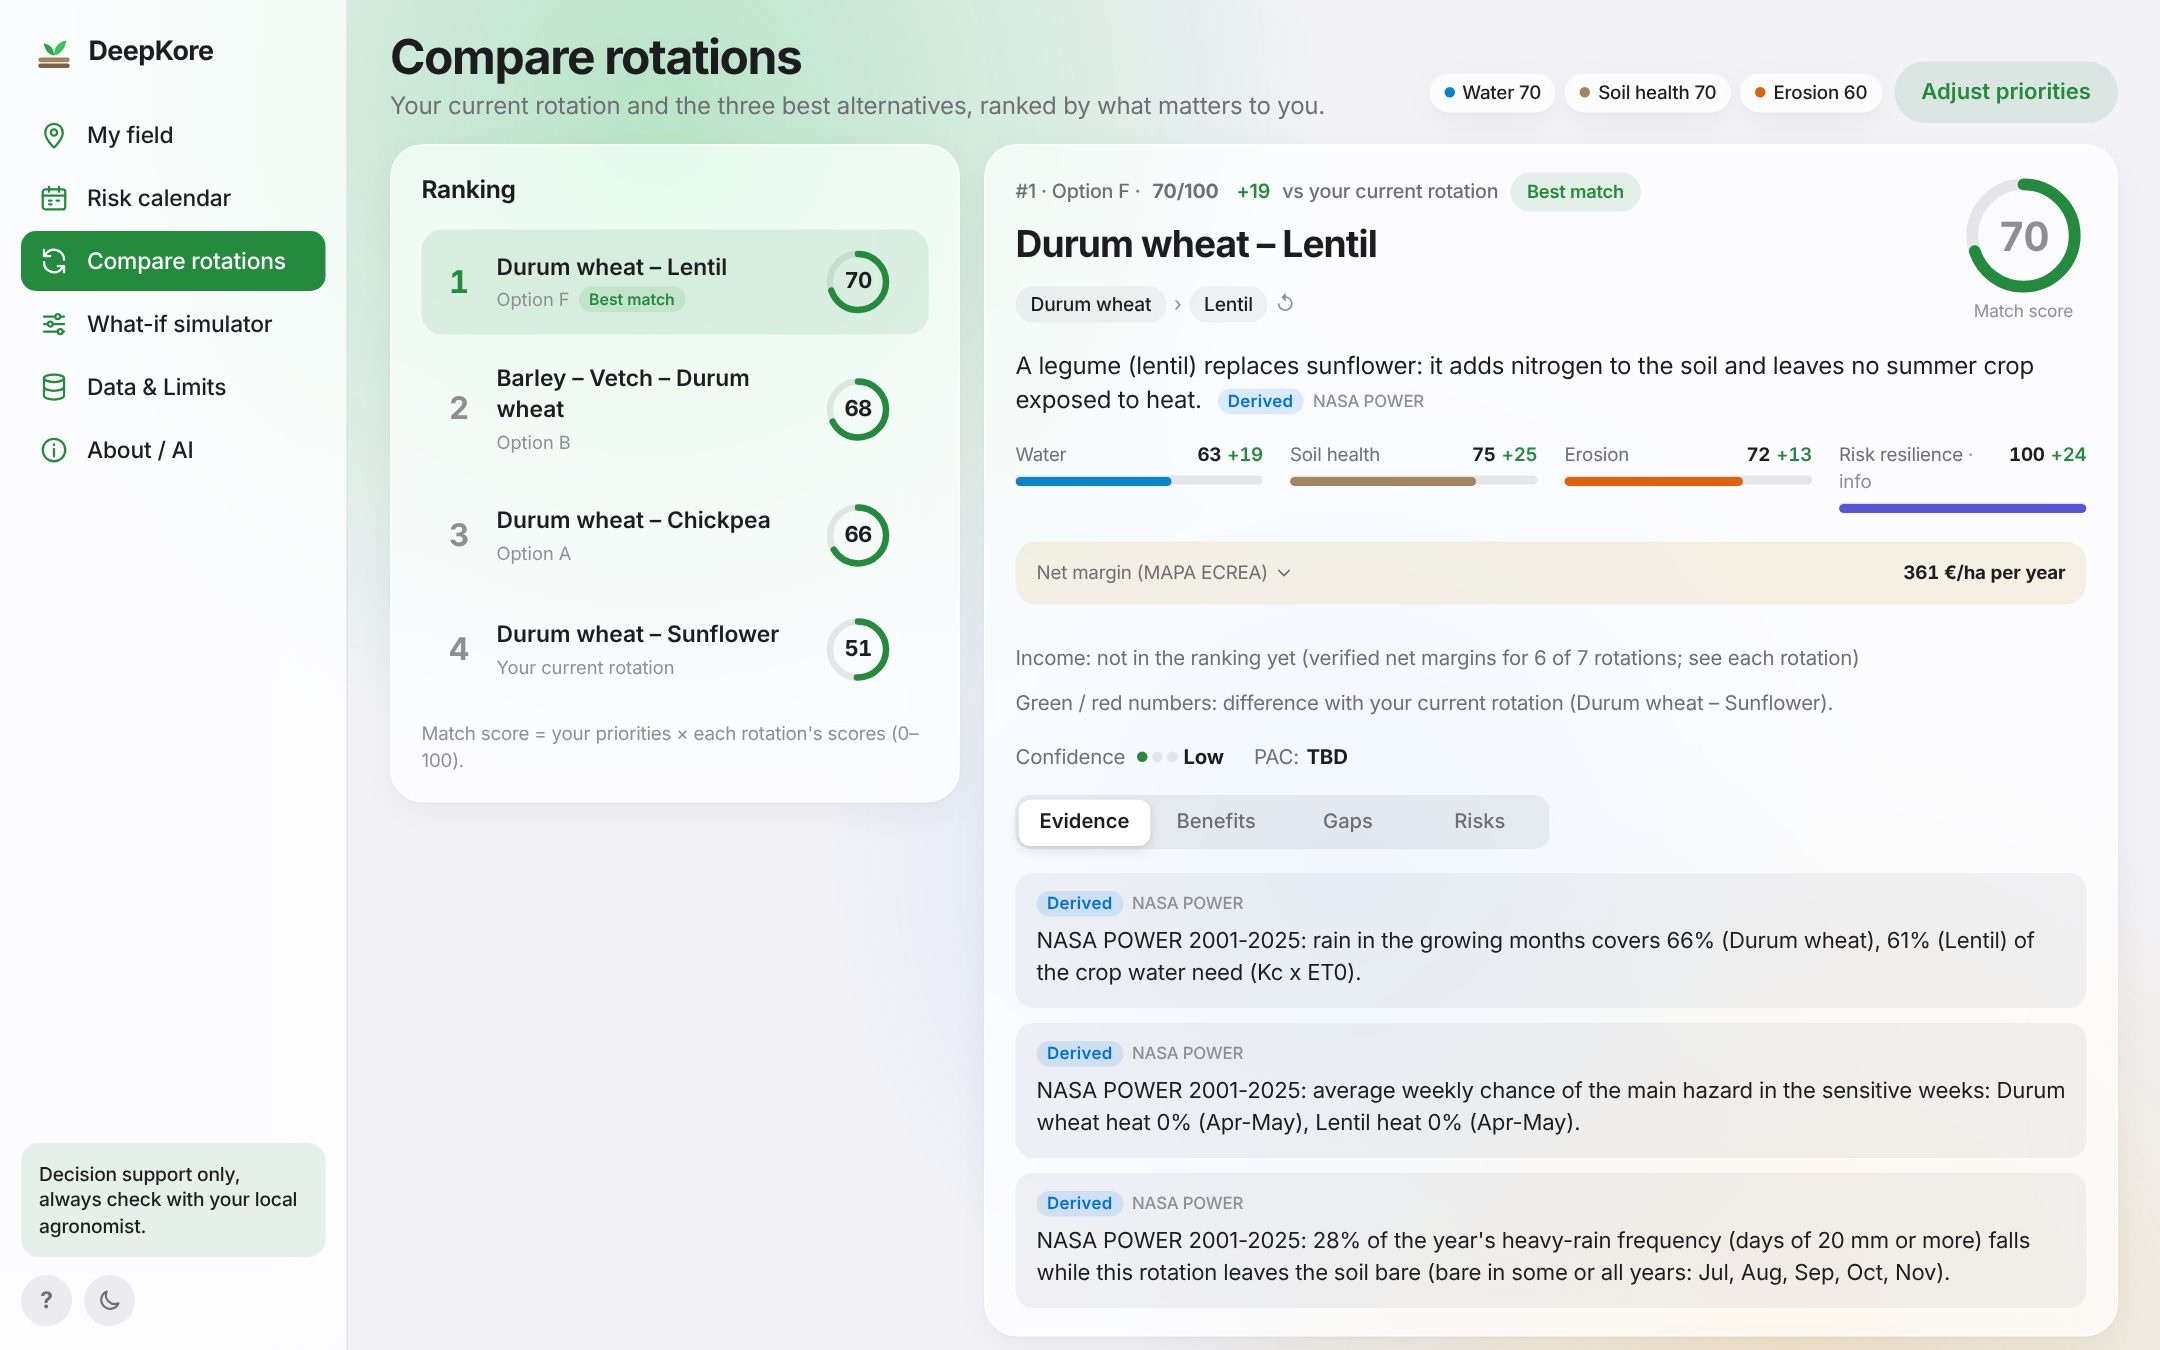
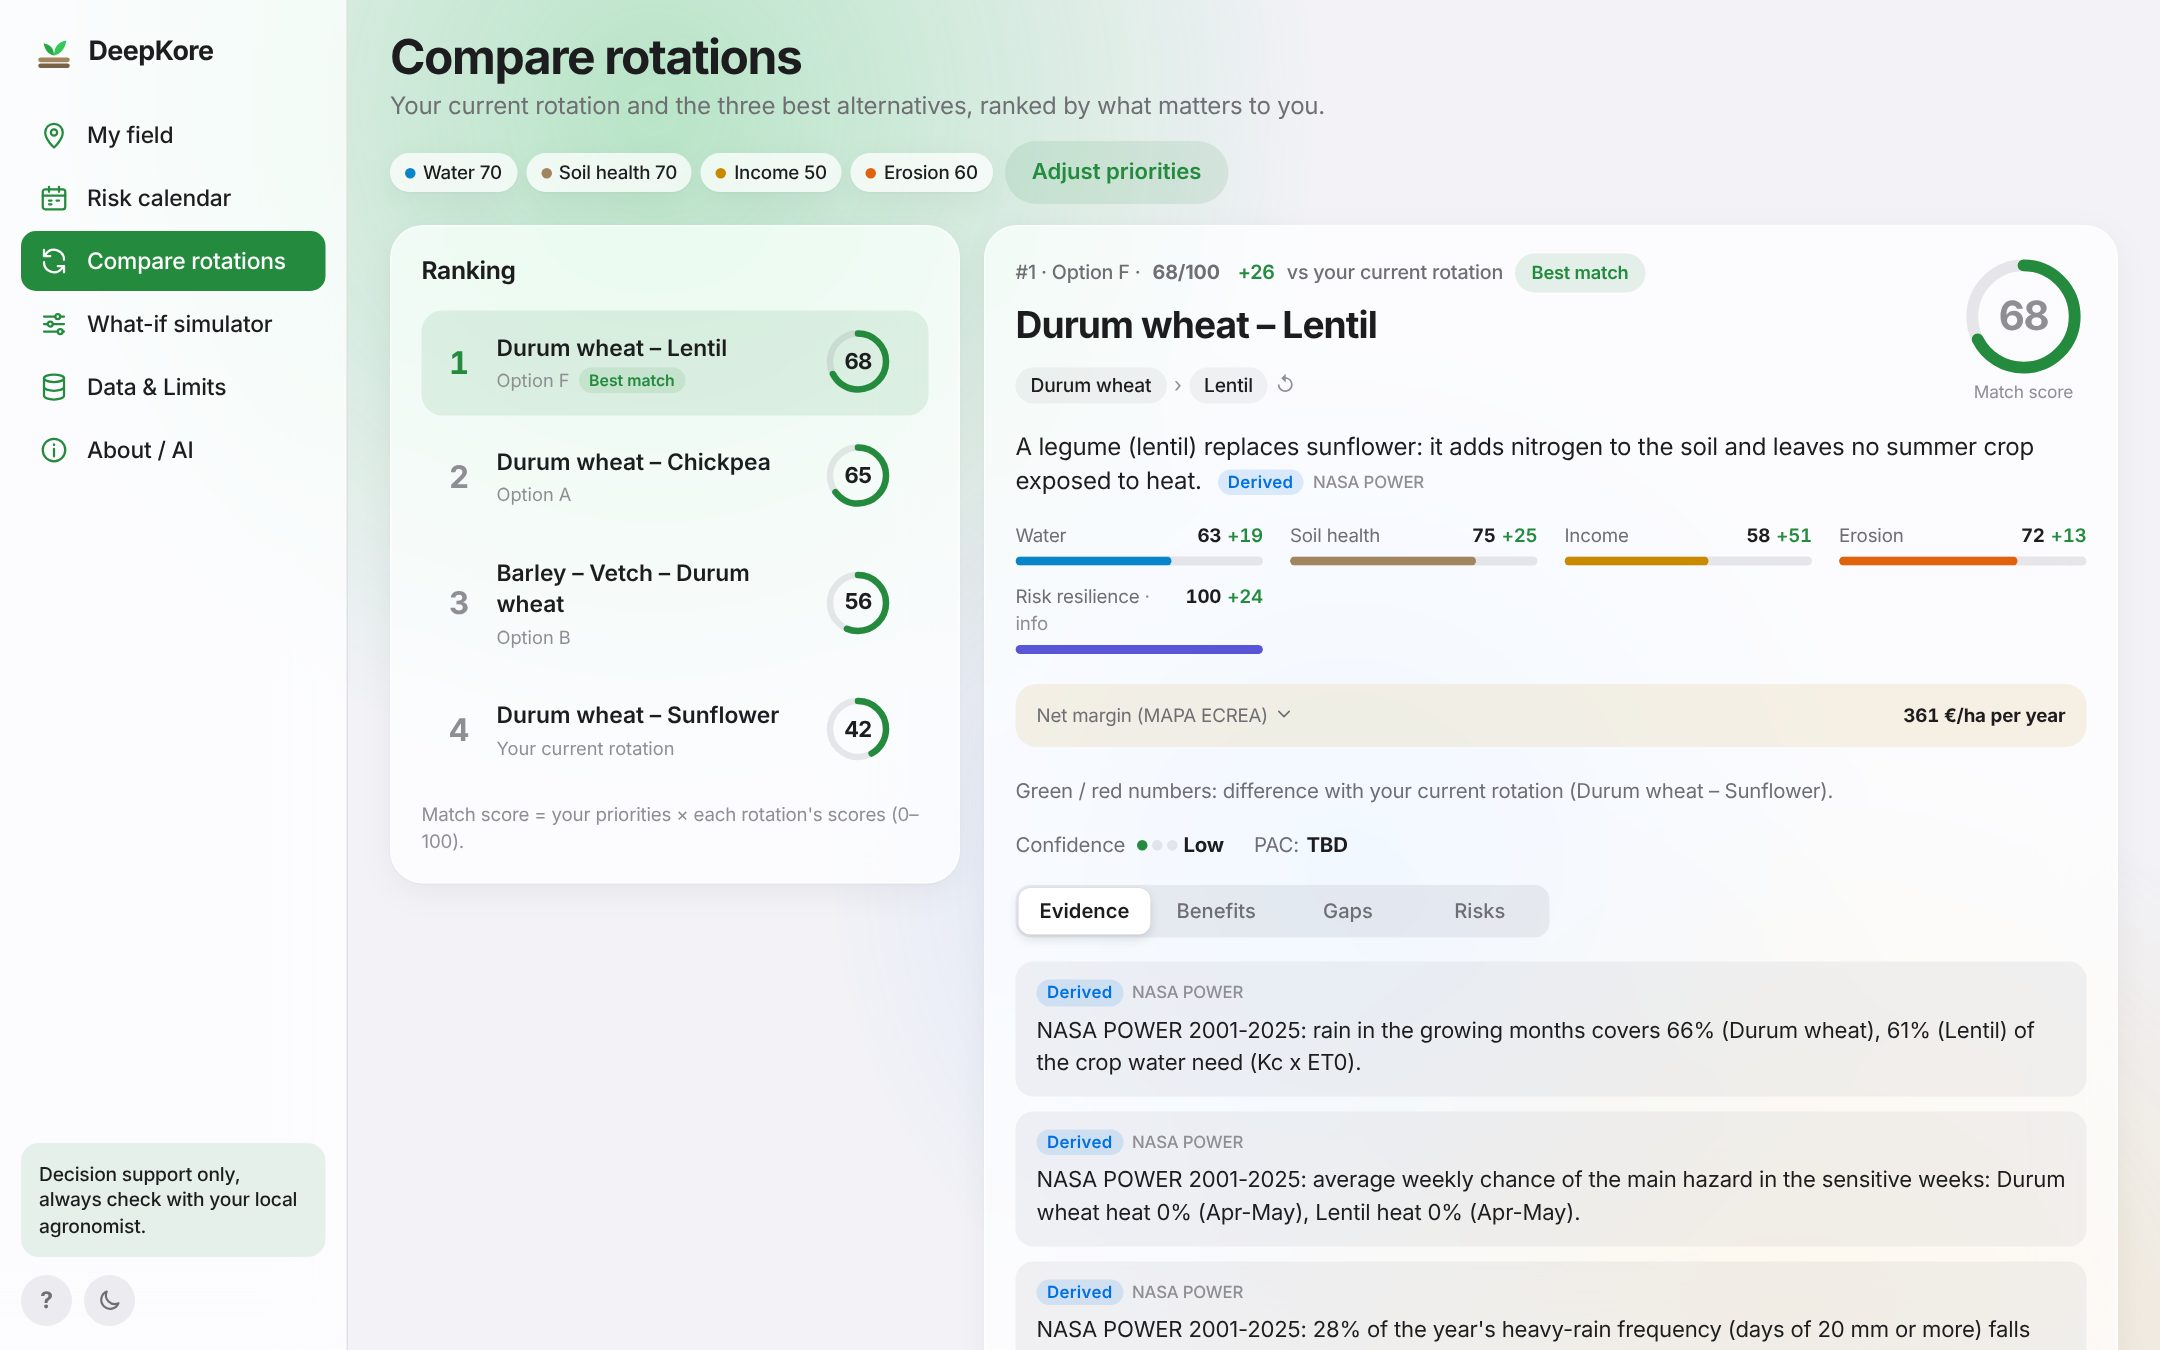
fix(income): fallow counts as 0 EUR/ha so income is in the ranking; clearer money text
- Fallow sells nothing: counted as 0 EUR/ha like vetch-as-forage and the cover crop (flagged, TBD).
  Every rotation now has a net margin, so the Income slider is back and income counts in the ranking.
  Default: current 42 -> best Durum wheat - Lentil 68 (tests updated).
- My field explains the net margin in plain words: after all costs, before CAP subsidies,
  regional ECREA average, not the farm's accounts.
- LIVE_VERSION 6 so fields cached on devices are recomputed; pitch numbers, script and texts updated.

Claude-Session: https://claude.ai/code/session_01D3Ytv4YFipRc5h3NFeBV3J

diff --git a/pitch/index.html b/pitch/index.html
@@ -395,11 +395,11 @@ button:focus-visible{outline:2px solid var(--greend);outline-offset:3px}
       <div class="card c1 a" style="--i:3">
         <span class="lab">Result at the pilot field</span>
         <div class="vsrow" id="vs">
-          <div class="score" style="--k:var(--clay)"><svg viewBox="0 0 64 64"><circle class="t" cx="32" cy="32" r="26"/><circle class="v" cx="32" cy="32" r="26" style="--off:80"/></svg><b>51</b><small>today</small><em>Durum wheat – Sunflower</em></div>
+          <div class="score" style="--k:var(--clay)"><svg viewBox="0 0 64 64"><circle class="t" cx="32" cy="32" r="26"/><circle class="v" cx="32" cy="32" r="26" style="--off:95"/></svg><b>42</b><small>today</small><em>Durum wheat – Sunflower</em></div>
           <div style="font:900 clamp(1.2rem,2vw,2rem) var(--sans);color:var(--mut)">→</div>
-          <div class="score" style="--k:var(--green)"><svg viewBox="0 0 64 64"><circle class="t" cx="32" cy="32" r="26"/><circle class="v" cx="32" cy="32" r="26" style="--off:49"/></svg><b>70</b><small>best for you</small><em>Durum wheat – Lentil</em></div>
+          <div class="score" style="--k:var(--green)"><svg viewBox="0 0 64 64"><circle class="t" cx="32" cy="32" r="26"/><circle class="v" cx="32" cy="32" r="26" style="--off:52"/></svg><b>68</b><small>best for you</small><em>Durum wheat – Lentil</em></div>
         </div>
-        <div class="deltas" id="deltas"><span>Water +19</span><span>Soil health +25</span><span>Erosion +13</span></div>
+        <div class="deltas" id="deltas"><span>Water +19</span><span>Soil health +25</span><span>Erosion +13</span><span>Income +51</span></div>
         <p style="margin-top:auto;font-size:clamp(.74rem,.92vw,.94rem)">Match score out of 100 with default priorities. The farmer decides the trade-off.</p>
       </div>
     </div>
@@ -492,7 +492,6 @@ const nameOf = (r) => String(r.name ?? r.id).replace(/^\s*(current|[A-Z])\s*:\s*
     document.getElementById("deltas").innerHTML = Object.keys(L).map((k) => {
       const a = best.rotation.scores?.[k], b = now.rotation.scores?.[k];
       if (typeof a !== "number" || typeof b !== "number" || a === b) return "";
-      if (k === "income") return ""; // income is not in the ranking yet
       return `<span class="${a < b ? "dn" : ""}">${L[k]} ${a > b ? "+" : "−"}${Math.abs(a - b)}</span>`;
     }).join("");
   } catch { /* keep static numbers */ }

diff --git a/js/views/field.js b/js/views/field.js
@@ -271,12 +271,12 @@ export function render(el, ctx) {
     totalsEl.innerHTML = `
       <dl class="kv">
         ${yearRain !== null ? `<div><dt>Rain on your field</dt><dd>≈ <b>${fmt(m3(yearRain, ha))} m³</b> per year <span class="muted">(${fmt(yearRain)} mm, mean ${esc(parcel.period)})</span></dd></div>` : ""}
-        <div><dt>Net margin, your current rotation (${esc(displayName(current))})</dt><dd>${income(current)}</dd></div>
-        ${best.id !== current.id ? `<div><dt>Net margin, best match (${esc(displayName(best))})</dt><dd>${income(best)}</dd></div>` : ""}
+        <div><dt>Net margin before CAP subsidies, your current rotation (${esc(displayName(current))})</dt><dd>${income(current)}</dd></div>
+        ${best.id !== current.id ? `<div><dt>Net margin before CAP subsidies, best match (${esc(displayName(best))})</dt><dd>${income(best)}</dd></div>` : ""}
       </dl>
       <h3 class="totals__sub">Water in the growing months, your current rotation</h3>
       <ul class="wb-list">${water(current)}</ul>
-      <p class="small muted">Water need = Kc × ET0 (FAO-56) over the growing months, rainfed, no soil storage. Net margin = MAPA ECREA, Andalucía rainfed, 2018-2020 (euro/ha, without decoupled payments); it is the base of the income score. 1 mm on 1 ha = 10 m³.</p>`;
+      <p class="small muted">Water need = Kc × ET0 (FAO-56) over the growing months, rainfed, no soil storage. Net margin = what is left from the harvest after seed, fertiliser, fuel, machinery, hired work and depreciation, <b>before CAP subsidies</b>. Regional average for rainfed farms in Andalucía from the Spanish Ministry of Agriculture (ECREA, 2018-2020), not your farm's accounts. It is the base of the income score. 1 mm on 1 ha = 10 m³.</p>`;
   };
 
   /* ---- best match ---- */

diff --git a/js/live.js b/js/live.js
@@ -4,7 +4,7 @@
 import { VALIDATORS } from "./contract.js";
 
 // Bump when the browser computation changes (worker, power_files, rotations_core, power_core).
-export const LIVE_VERSION = "5";
+export const LIVE_VERSION = "6";
 const CACHE_PREFIX = "deepkore-live:";
 const OLD_PREFIXES = ["deepkore-live-v1:", "deepkore-live-v2:"];
 export const LIVE_FILES = ["parcel", "climate", "risk_windows", "validation", "rotations", "scenarios"];

diff --git a/pitch/GUION.md b/pitch/GUION.md
@@ -30,7 +30,7 @@ Los 2-3 minutos incluyen subir al escenario y las preguntas: el pitch tiene que 
 > "El motor es NASA POWER: 25 años de datos diarios de tu parcela. Con ellos calculamos la probabilidad semanal de helada, calor y lluvia fuerte, el agua que necesita cada cultivo y cuándo cae la tormenta sobre suelo desnudo."
 
 **6 · Evidence**
-> "¿Funciona con datos reales? Sí: detecta la sequía de 2022–23 como la más seca de 25 años. Y en nuestra parcela piloto, pasar de trigo–girasol a trigo–lenteja sube de 51 a 70: más agua, más suelo, menos erosión."
+> "¿Funciona con datos reales? Sí: detecta la sequía de 2022–23 como la más seca de 25 años. Y en nuestra parcela piloto, pasar de trigo–girasol a trigo–lenteja sube de 42 a 68: más suelo, menos erosión y más margen por hectárea."
 
 **7 · Built / Simulated / Next**
 > "Funciona hoy en toda Andalucía, nuestra región piloto. Los datos de la NASA son globales: para llevarla a cualquier país solo hay que añadir sus calendarios de cultivo. Siguiente paso: cooperativas de Málaga, SMAP y GPM. Y siempre: apoya al agricultor, decide su agrónomo."

diff --git a/docs/SUBMISSION.md b/docs/SUBMISSION.md
@@ -63,8 +63,8 @@ regional, and in 48 hours we wrote and checked them only for our own region. And
 - **Erosion:** 1 − share of the year's heavy-rain frequency that falls while the soil is bare.
 - **Risk resilience:** 1 − mean weekly chance of each crop's main hazard during its sensitive weeks.
 - **Soil health:** legume years and botanical diversity of the sequence.
-- **Income:** net margin per hectare from the Spanish Ministry of Agriculture (MAPA ECREA 2.0, Andalucía rainfed). It is shown
-  for each rotation but kept out of the ranking while one rotation (wheat–fallow) has no verified value.
+- **Income:** net margin per hectare before CAP subsidies, from the Spanish Ministry of Agriculture (MAPA ECREA 2.0, Andalucía
+  rainfed, 2018–2020). Crops without a verified value (vetch as forage, cover crop, fallow) count as 0 €/ha and are flagged.
 
 ### Benefits
 - Turns open NASA data into plain-language answers a farmer can use on a phone, without login.

diff --git a/pipeline/README.md b/pipeline/README.md
@@ -133,3 +133,6 @@ data do not support are edited in `TEXT_EDITS` in `build_rotations.mjs`:
 - No field yields or prices, no soil analysis or PAC rules. Net margins are regional ECREA averages, not the field's.
   Scores are for comparing rotations, not promises.
 - Crop calendars are written for rainfed Andalucía, so the map only accepts points there.
+
+**15 Nov update:** Fallow now counts as 0 €/ha (no crop sold), like the other crops without a verified net margin, so every
+rotation has an income score and income is in the ranking (default: current 42 → best Durum wheat – Lentil 68).
